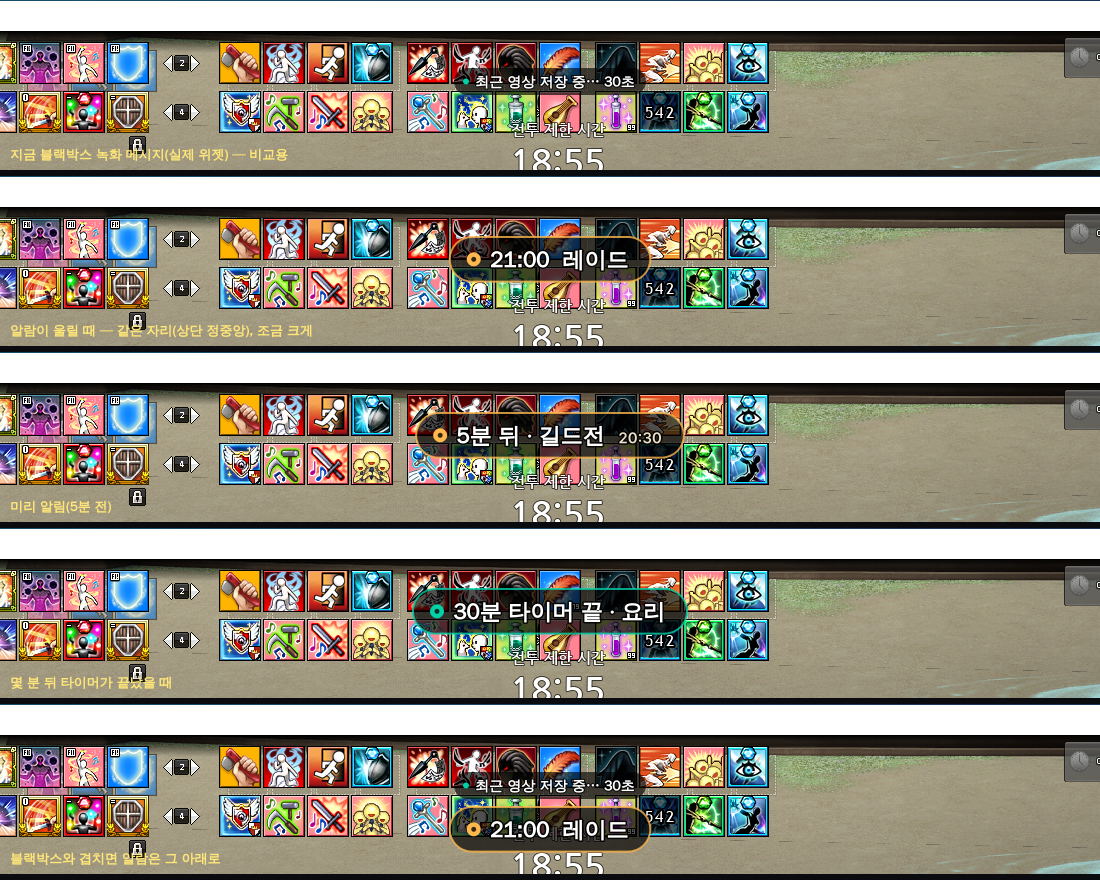
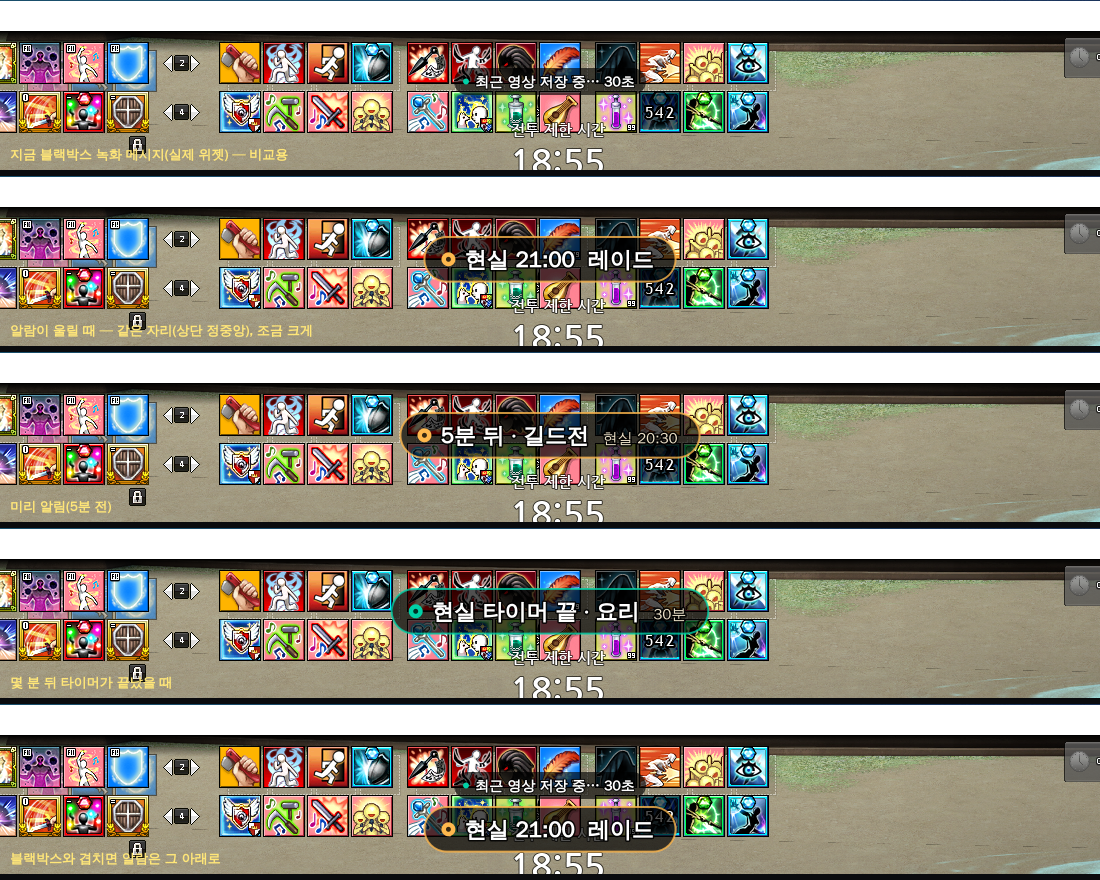
docs: 알람 → '현실 알람'(게임 안 시간 알람과 구분, 이름·알림·목록에 현실 명시) (사용자 결정 11-13)
Claude-Session: https://claude.ai/code/session_012tR8ejYmFbfiysA27exRqd

diff --git a/docs/alarm-spec.md b/docs/alarm-spec.md
@@ -1,11 +1,18 @@
-# 알람 (편의기능)
+# 현실 알람 (편의기능)
 
 - 작성: 2026-11-13 (기획 세션). 상태: **기획 확정(사용자 결정 11-12~13), 미구현 — 개발 대상.**
 - 사용자 요청: 현실 시각 기반 알람. **시각 직접 지정**과 **몇 분 뒤** 두 가지. 게임 안에서 다가오는 알람을 목록으로 미리 보기.
-- 자리: **편의기능 › `알람` 탭**(사용자 결정 — 알람은 '앱이 켜져 있으면 울리는' 도구라 게임 위 정보(FPS) 화면에 두면 게임 전용처럼 보임).
+- 자리: **편의기능 › `현실 알람` 탭**(사용자 결정 — 알람은 '앱이 켜져 있으면 울리는' 도구라 게임 위 정보(FPS) 화면에 두면 게임 전용처럼 보임).
 - 알림 모양은 [화면 규칙 '알림 규칙'](ui-rules.md)의 ② 게임 위 알림 / ③ 앱 알림을 따른다.
+- **'현실 시간' 명시(사용자 결정 11-13)**: 마비노기에는 게임 안 시계와 그 아래 **게임 시간 알람**이 있어 헷갈릴 수 있다 → 이름·알림·목록에 **`현실`**을 꼭 붙인다.
+  - 탭 이름 **`현실 알람`**, 머리 설명 첫 문장 `PC 시계(현실 시간) 기준이에요. 게임 안 시간 알람과는 달라요.`
+  - 게임 위 알림: `현실 21:00  레이드` / 미리 알림 `5분 뒤 · 길드전  현실 20:30` / 타이머 `현실 타이머 끝 · 요리  30분`. 토스트 제목도 `현실 알람`.
+  - 게임 위 목록 오버레이: 잠금 상태에서도 맨 위 작은 머리글 `현실 알람`(해제 상태 머리글 `⠿ 현실 알람 · 끌어서 이동`).
+  - 탭 상태 줄 `● 다음 현실 알람 20:30 길드전 · 타이머 12:34 남음`.
 
 ## 1. 탭 화면
+
+> 시안 그림의 탭 제목·상태 줄은 '현실' 명시 결정(11-13) 전 모습이다 — 글자는 위 결정이 우선.
 
 ![편의기능 › 알람 탭](assets/alarm-20261113/tab.png)
 
@@ -13,7 +20,7 @@
 
 | 부분 | 내용 |
 | --- | --- |
-| 머리 | `알람` · `앱이 켜져 있으면 게임을 하지 않아도 울려요. 시각을 정하거나 몇 분 뒤로 맞춰요.` |
+| 머리 | `현실 알람` · `PC 시계(현실 시간) 기준이에요. 게임 안 시간 알람과는 달라요. 앱이 켜져 있으면 게임을 하지 않아도 울려요.` |
 | 상태 줄 | `알람 사용` 스위치 + `● 다음 알람 20:30 길드전 · 타이머 12:34 남음` |
 | 새 알람 — **시각 지정** | 시각(HH:mm) · 반복(`한 번`/`매일`/`요일 고르기…`) · 이름 · 미리 알림(`없음`/`5분 전`/`10분 전`) → `＋ 추가` |
 | 새 알람 — **몇 분 뒤** | 분(1~600) 또는 빠른 버튼 `5분`·`10분`·`30분`·`60분` · 이름 → `▶ 시작` |
@@ -29,7 +36,7 @@
 
 | 상황 | 화면 | 소리 |
 | --- | --- | --- |
-| 게임이 켜져 있음(앞·뒤 상관없이) | **② 게임 위 알림**: 게임 화면 상단 정중앙 큰 알약 **5초**(블랙박스와 같은 부품, 글자 22px). 시각 알람 주황 `21:00  레이드`, 미리 알림 `5분 뒤 · 길드전  20:30`, 타이머 민트 `30분 타이머 끝 · 요리`. 블랙박스 메시지와 겹치면 그 아래 | ✓ |
+| 게임이 켜져 있음(앞·뒤 상관없이) | **② 게임 위 알림**: 게임 화면 상단 정중앙 큰 알약 **5초**(블랙박스와 같은 부품, 글자 22px). 시각 알람 주황 `현실 21:00  레이드`, 미리 알림 `5분 뒤 · 길드전  현실 20:30`, 타이머 민트 `현실 타이머 끝 · 요리  30분`. 블랙박스 메시지와 겹치면 그 아래 | ✓ |
 | 게임이 꺼져 있음(앱만) | **③ 앱 알림**: 오른쪽 아래 토스트 5초 | ✓ |
 | 전투 보조 일시정지 중 | 위와 같음(일시정지는 전투 알림만 멈춤) | ✓ |
 | 앱이 꺼져 있었음 | 그사이 지난 알람은 울리지 않음 | — |
@@ -41,7 +48,7 @@
 ![게임 위 알람 목록 — 잠금 / 1분 안 빨강 / 잠금 해제](assets/alarm-20261113/list-overlay.png)
 
 - 다음 패턴 목록 오버레이(`upcoming_overlay.py`)와 같은 모양·규칙: 잠금 = 배경 없이 외곽선 글씨·클릭 통과, 해제 = 반투명 상자 + `⠿ 끌어서 이동 · 고정하면 표시만`.
-- 줄: 시각 알람 `10:30  해야 할 일`(노랑), 타이머 `28분 뒤  요리 타이머`(민트, 1분마다), **1분 안은 빨강·초 단위**(`58초 뒤`).
+- 맨 위 작은 머리글 `현실 알람`(잠금 상태에도). 줄: 시각 알람 `10:30  해야 할 일`(노랑), 타이머 `28분 뒤  요리 타이머`(민트, 1분마다), **1분 안은 빨강·초 단위**(`58초 뒤`).
 - 가장 먼저 울릴 것부터 **최대 3개**. **게임이 앞에 있고 다가오는 알람이 있을 때만** 보이고, 없으면 숨음.
 - 게임 위 정보(FPS) 화면에는 알람 항목을 넣지 않는다(시계와 알람 분리).
 

diff --git a/docs/ui-rules.md b/docs/ui-rules.md
@@ -155,7 +155,7 @@
 | 규칙 | 언제 | 모양 | 지금 쓰는 곳 |
 | --- | --- | --- | --- |
 | ① 전투 경고 | 몇 초 안에 반응해야 할 때 | 큰 외곽선 글씨, 사용자가 정한 자리(`pattern_overlay`) | 보스 패턴, 헤일로 5초 전 |
-| ② 게임 위 알림 | 게임 중에 놓치면 안 되는 짧은 소식 | 게임 화면 **상단 정중앙 알약**(블랙박스 메시지 부품을 공용으로 — 크기 보통/크게, 색으로 종류 구분), 클릭 통과·녹화 제외, 겹치면 아래로 쌓기 | 블랙박스 저장(보통·초록), 알람(크게·주황 5초), 타이머(크게·민트 5초) |
+| ② 게임 위 알림 | 게임 중에 놓치면 안 되는 짧은 소식 | 게임 화면 **상단 정중앙 알약**(블랙박스 메시지 부품을 공용으로 — 크기 보통/크게, 색으로 종류 구분), 클릭 통과·녹화 제외, 겹치면 아래로 쌓기 | 블랙박스 저장(보통·초록), 현실 알람(크게·주황 5초, `현실` 명시), 타이머(크게·민트 5초) |
 | ③ 앱 알림 | 정보성·급하지 않음, 게임이 없을 때 | 화면 오른쪽 아래 토스트(`toast.py`) | 파티 키워드, 문의 완료, 업데이트, 게임이 꺼져 있을 때의 알람 |
 | ④ 대화 | 권유·추천 | 제작자 잡담 말풍선(앱 창 안) | 기능 추천, 문의 권유, 디스코드 권유 |
 - 근거: [알람 명세](alarm-spec.md) 2절, [잡담 명세 17절](creator-dialogue-spec.md).

diff --git a/docs/status.md b/docs/status.md
@@ -6,7 +6,7 @@
 
 ## 배포와 검증
 
-- **알람 확정(2026-11-13, 사용자 결정 — 개발 대상)**: [명세](alarm-spec.md). 편의기능 › `알람` 탭, 시각 지정(반복·미리 알림)·몇 분 뒤 타이머, 앱이 켜져 있으면 게임과 상관없이 울림 —
+- **현실 알람 확정(2026-11-13, 사용자 결정 — 개발 대상)**: [명세](alarm-spec.md). 편의기능 › `현실 알람` 탭(게임 안 시간 알람과 헷갈리지 않게 이름·알림·목록에 `현실` 명시), 시각 지정(반복·미리 알림)·몇 분 뒤 타이머, 앱이 켜져 있으면 게임과 상관없이 울림 —
   게임 중이면 상단 정중앙 큰 알약 5초(블랙박스 부품 공용), 아니면 오른쪽 아래 토스트, 소리 자리 `알람.mp3`·`타이머.mp3`(사용자가 넣음). 게임 위 알람 목록 오버레이(최대 3개, 1분 안 빨강).
   같이 확정: [화면 규칙 '알림 규칙' 4개](ui-rules.md)(전투 경고·게임 위 알림·앱 알림·대화), [잡담 17.7 문의 권유](creator-dialogue-spec.md)(일반 + 잘 안 되는 기능 콕 집어).
 
